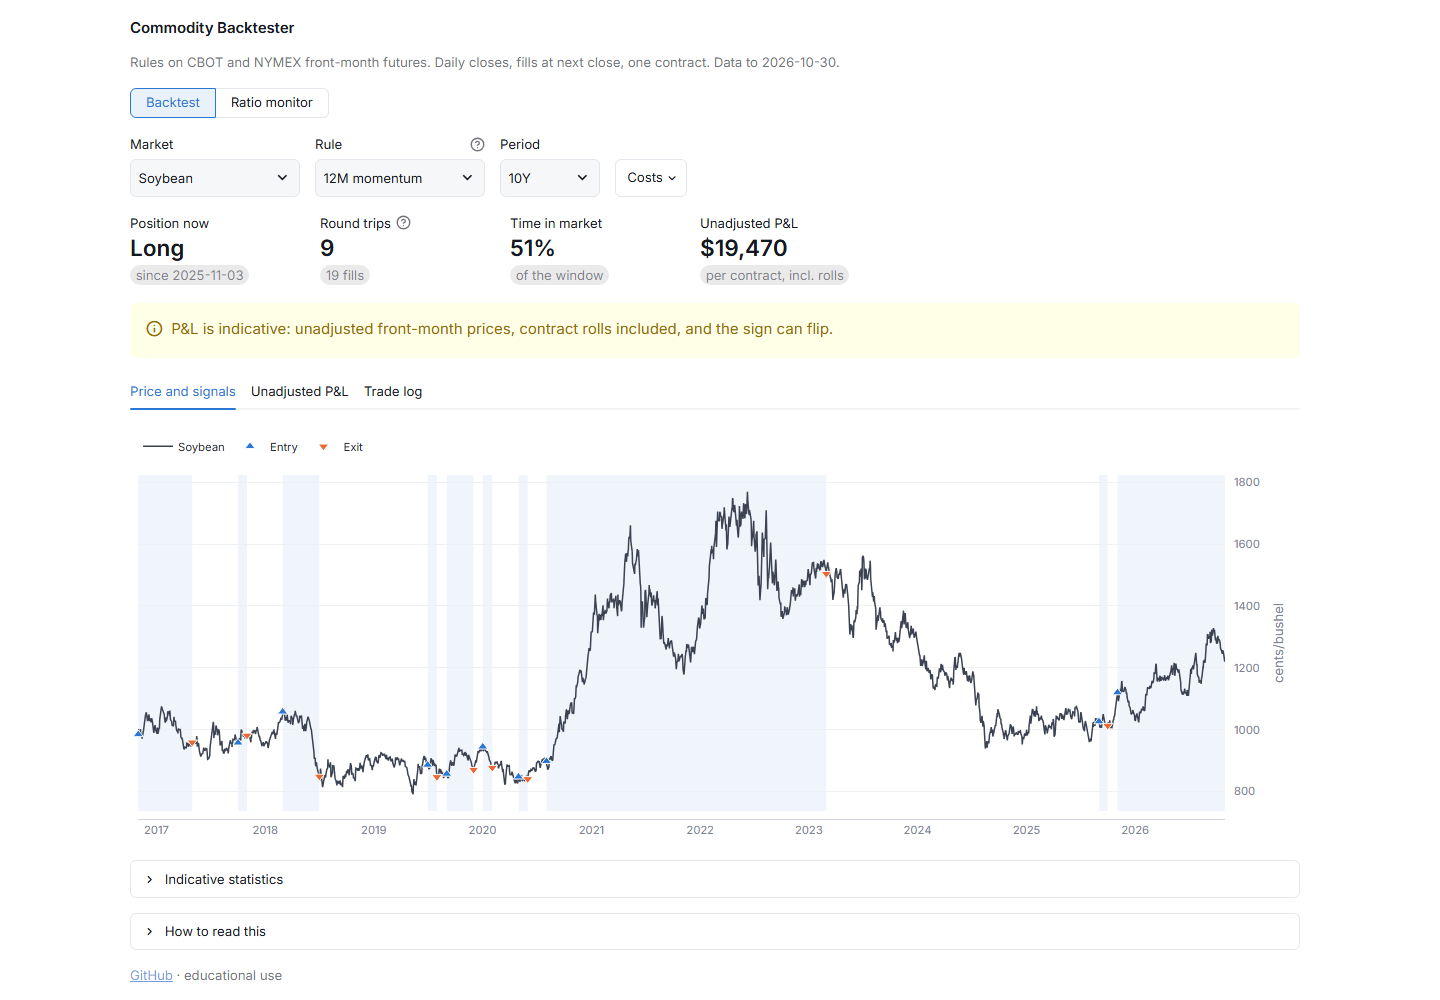
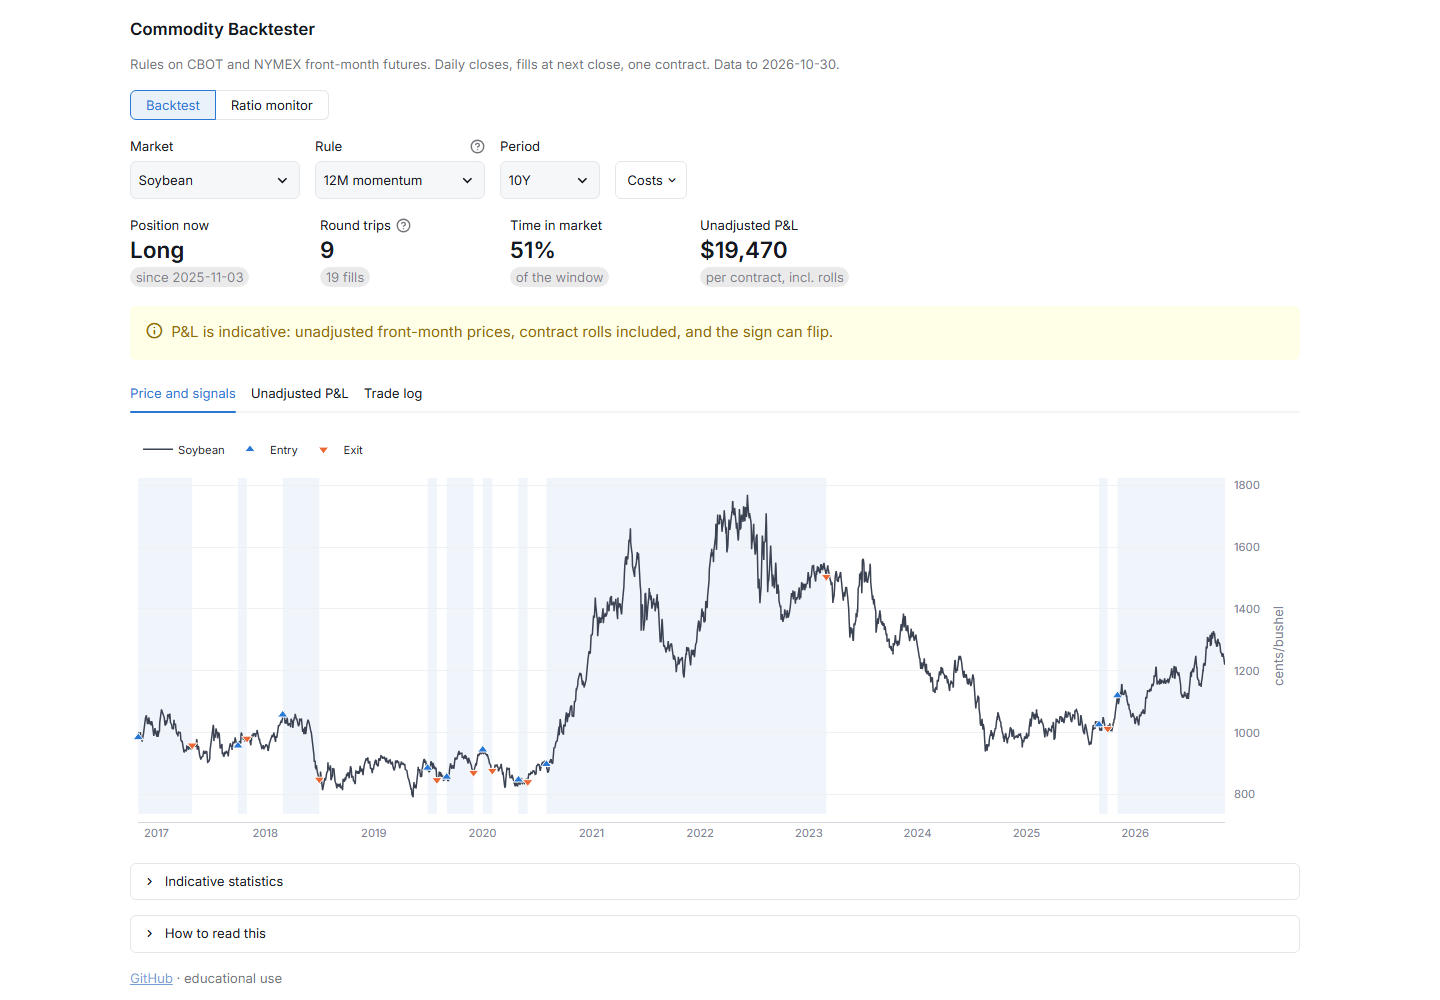
fix(ui): warn on a damaged cache instead of raising a traceback
A market or ratio leg that is all NaN or missing raised IndexError or KeyError. Both views now warn and keep the controls. Also labels Level as USD/MT basis, with its date in the help text, sets the title to 1.125rem, and adds wiring tests for slippage, the z-score history, the axis unit, the open position on the P&L chart and required=True.

diff --git a/tests/test_app.py b/tests/test_app.py
@@ -2,12 +2,15 @@
 
 from __future__ import annotations
 
+import base64
 import datetime
 import itertools
+import json
 import re
 from pathlib import Path
 from unittest.mock import patch
 
+import numpy as np
 import pandas as pd
 import pytest
 import streamlit as st
@@ -49,6 +52,32 @@ def app(tmp_path, monkeypatch, synthetic_prices):
 
 def _labels(at: AppTest) -> list[str]:
     return [metric.label for metric in at.metric]
+
+
+def _headline_labels(at: AppTest) -> list[str]:
+    """Metric labels outside the expanders. The Sharpe lives in one, even while closed."""
+    in_expanders = [metric.label for expander in at.expander for metric in expander.metric]
+    labels = _labels(at)
+    for label in in_expanders:
+        labels.remove(label)
+    return labels
+
+
+def _chart_spec(at: AppTest, key: str) -> dict:
+    chart = next(chart for chart in at.get("plotly_chart") if key in chart.proto.id)
+    return json.loads(chart.proto.spec)
+
+
+def _trace(spec: dict, name: str) -> dict:
+    return next(trace for trace in spec["data"] if trace.get("name") == name)
+
+
+def _trace_y(trace: dict) -> np.ndarray:
+    """Plotly serialises float arrays as base64 with a dtype."""
+    y = trace["y"]
+    if isinstance(y, dict):
+        return np.frombuffer(base64.b64decode(y["bdata"]), dtype=y["dtype"]).astype(float)
+    return np.asarray(y, dtype=float)
 
 
 def _metric(at: AppTest, label: str):
@@ -94,7 +123,7 @@ class TestFirstLoad:
         app.run()
         _no_exceptions(app)
         _assert_headlines(app)
-        assert len(app.metric) == 4
+        assert len(_headline_labels(app)) == 4
         assert _charts(app), "A chart must be on the first screen."
         assert not any("run" in button.label.lower() for button in app.button)
 
@@ -138,6 +167,32 @@ class TestFirstLoad:
         before = _usd(_metric(app, "Unadjusted P&L"))
         app.number_input(key="commission").set_value(50.0).run()
         assert _usd(_metric(app, "Unadjusted P&L")) < before
+
+    def test_slippage_changes_pnl(self, app) -> None:
+        app.run()
+        app.selectbox(key="rule").set_value("Donchian 20/10").run()
+        before = _usd(_metric(app, "Unadjusted P&L"))
+        app.number_input(key="slippage").set_value(1.0).run()
+        assert _usd(_metric(app, "Unadjusted P&L")) < before
+
+    def test_view_control_cannot_be_cleared(self, app) -> None:
+        """Without required=True, clicking the active view selects nothing at all."""
+        app.run()
+        assert app.button_group(key="view").proto.required is True
+
+    def test_price_axis_uses_the_market_unit(self, app) -> None:
+        app.run()
+        assert _chart_spec(app, "price_chart")["layout"]["yaxis"]["title"]["text"] == "cents/bushel"
+        app.selectbox(key="market").set_value("Crude Oil (WTI)").run()
+        assert _chart_spec(app, "price_chart")["layout"]["yaxis"]["title"]["text"] == "USD/barrel"
+
+    def test_pnl_chart_shows_the_open_position(self, app) -> None:
+        app.run()
+        app.selectbox(key="rule").set_value("Buy & hold").run()
+        assert _metric(app, "Position now").value == "Long"
+        open_trace = _trace(_chart_spec(app, "pnl_chart"), "With open position")
+        headline = _usd(_metric(app, "Unadjusted P&L"))
+        assert _trace_y(open_trace)[-1] == pytest.approx(headline, abs=1.0)
 
     def test_all_market_rule_period_combinations(self, app) -> None:
         app.run()
@@ -402,7 +457,22 @@ class TestMonitor:
             _no_exceptions(app)
         _set_custom(app, datetime.date(2008, 1, 2), datetime.date(2012, 12, 31))
         _no_exceptions(app)
-        assert "2012-12-31" in _metric(app, "Level").delta
+        assert "2012-12-31" in _metric(app, "Level").proto.help
+
+    def test_level_is_labelled_as_a_basis_not_a_price(self, app) -> None:
+        app.run()
+        _switch_view(app, "Ratio monitor")
+        assert _metric(app, "Level").delta == "USD/MT basis"
+
+    def test_zscore_uses_history_before_a_short_window(self, app) -> None:
+        """Statistics run on the full history. On the window alone, 1Y would have no z-score."""
+        app.run()
+        _switch_view(app, "Ratio monitor")
+        app.selectbox(key="period").set_value("1Y").run()
+        spec = _chart_spec(app, "zscore_chart")
+        assert np.isfinite(_trace_y(_trace(spec, "Z-score"))).all()
+        mean = _trace(_chart_spec(app, "ratio_chart"), "1y mean")
+        assert np.isfinite(_trace_y(mean)).all()
 
     def test_monitor_window_without_data_warns(self, app) -> None:
         app.run()
@@ -454,6 +524,72 @@ class TestTradeLog:
 # ---------------------------------------------------------------------------
 # Data failure states
 # ---------------------------------------------------------------------------
+
+
+class TestDamagedCache:
+    """A cache hit with a bad column must warn in that market and leave the rest usable."""
+
+    @pytest.fixture(params=["all_nan", "missing"])
+    def damaged_app(self, request, tmp_path, monkeypatch, synthetic_prices):
+        frame = synthetic_prices.copy()
+        if request.param == "all_nan":
+            frame["Corn"] = np.nan
+        else:
+            frame = frame.drop(columns="Corn")
+        path = tmp_path / "damaged.parquet"
+        frame.to_parquet(path)
+        monkeypatch.setattr(config, "YFINANCE_RAW", path)
+        st.cache_data.clear()
+        with patch("src.data_loader.yf.download") as download:
+            yield _new_app()
+        download.assert_not_called()
+        st.cache_data.clear()
+
+    def test_backtest_warns_and_keeps_the_controls(self, damaged_app) -> None:
+        damaged_app.run()
+        _no_exceptions(damaged_app)
+        _assert_headlines(damaged_app)
+
+        damaged_app.selectbox(key="market").set_value("Corn").run()
+
+        _no_exceptions(damaged_app)
+        assert any("No Corn prices are available" in w.value for w in damaged_app.warning)
+        assert not damaged_app.metric
+        assert not _charts(damaged_app)
+        assert len(damaged_app.selectbox) >= 3, "Controls must stay available."
+
+        damaged_app.selectbox(key="market").set_value("Soybean").run()
+        _no_exceptions(damaged_app)
+        _assert_headlines(damaged_app)
+
+    def test_monitor_warns_and_keeps_the_controls(self, damaged_app) -> None:
+        damaged_app.run()
+        _switch_view(damaged_app, "Ratio monitor")
+
+        _no_exceptions(damaged_app)
+        assert any("No Soybean / Corn data is available" in w.value for w in damaged_app.warning)
+        assert not damaged_app.metric
+        assert not _charts(damaged_app)
+        assert [box.label for box in damaged_app.selectbox] == ["Pair", "Period"]
+
+        damaged_app.selectbox(key="pair").set_value("Heating Oil / WTI").run()
+        _no_exceptions(damaged_app)
+        assert _labels(damaged_app) == ["Level", "Z-score", "Percentile"]
+
+    def test_default_market_damaged_on_first_load(self, tmp_path, monkeypatch, synthetic_prices):
+        """Regression: an empty default market raised IndexError on the first screen."""
+        frame = synthetic_prices.copy()
+        frame["Soybean"] = np.nan
+        path = tmp_path / "damaged.parquet"
+        frame.to_parquet(path)
+        monkeypatch.setattr(config, "YFINANCE_RAW", path)
+        st.cache_data.clear()
+        with patch("src.data_loader.yf.download") as download:
+            at = _new_app().run()
+        download.assert_not_called()
+        _no_exceptions(at)
+        assert any("No Soybean prices are available" in w.value for w in at.warning)
+        st.cache_data.clear()
 
 
 class TestDataStates:

diff --git a/app.py b/app.py
@@ -167,7 +167,11 @@ def _render_backtest(prices: pd.DataFrame, bounds: tuple[datetime.date, datetime
             )
 
     rule = RULE_KEY_BY_LABEL[rule_label]
-    series = prices[market].dropna()
+    series = prices[market].dropna() if market in prices else pd.Series(dtype=float)
+    if series.empty:
+        st.warning(f"No {market} prices are available.", icon=":material/warning:")
+        return
+
     window = _resolve_window(period, custom_start, custom_end, series)
     if window is None:
         return
@@ -298,7 +302,17 @@ def _render_monitor(prices: pd.DataFrame, bounds: tuple[datetime.date, datetime.
         )
         period, custom_start, custom_end = _period_control(bounds)
 
-    ratio = ratio_series(prices, *RATIO_PAIRS[pair], tons_conversion)
+    first_leg, second_leg = RATIO_PAIRS[pair]
+    has_legs = first_leg in prices and second_leg in prices
+    ratio = (
+        ratio_series(prices, first_leg, second_leg, tons_conversion)
+        if has_legs
+        else pd.Series(dtype=float)
+    )
+    if ratio.empty:
+        st.warning(f"No {pair} data is available.", icon=":material/warning:")
+        return
+
     window = _resolve_window(period, custom_start, custom_end, ratio)
     if window is None:
         return
@@ -315,7 +329,8 @@ def _render_monitor(prices: pd.DataFrame, bounds: tuple[datetime.date, datetime.
         st.metric(
             "Level",
             f"{snapshot.level:.3f}",
-            delta=f"USD/MT, {snapshot.as_of}",
+            delta="USD/MT basis",
+            help=f"Ratio at the close of {snapshot.as_of}.",
             **METRIC_STYLE,
         )
         st.metric(
